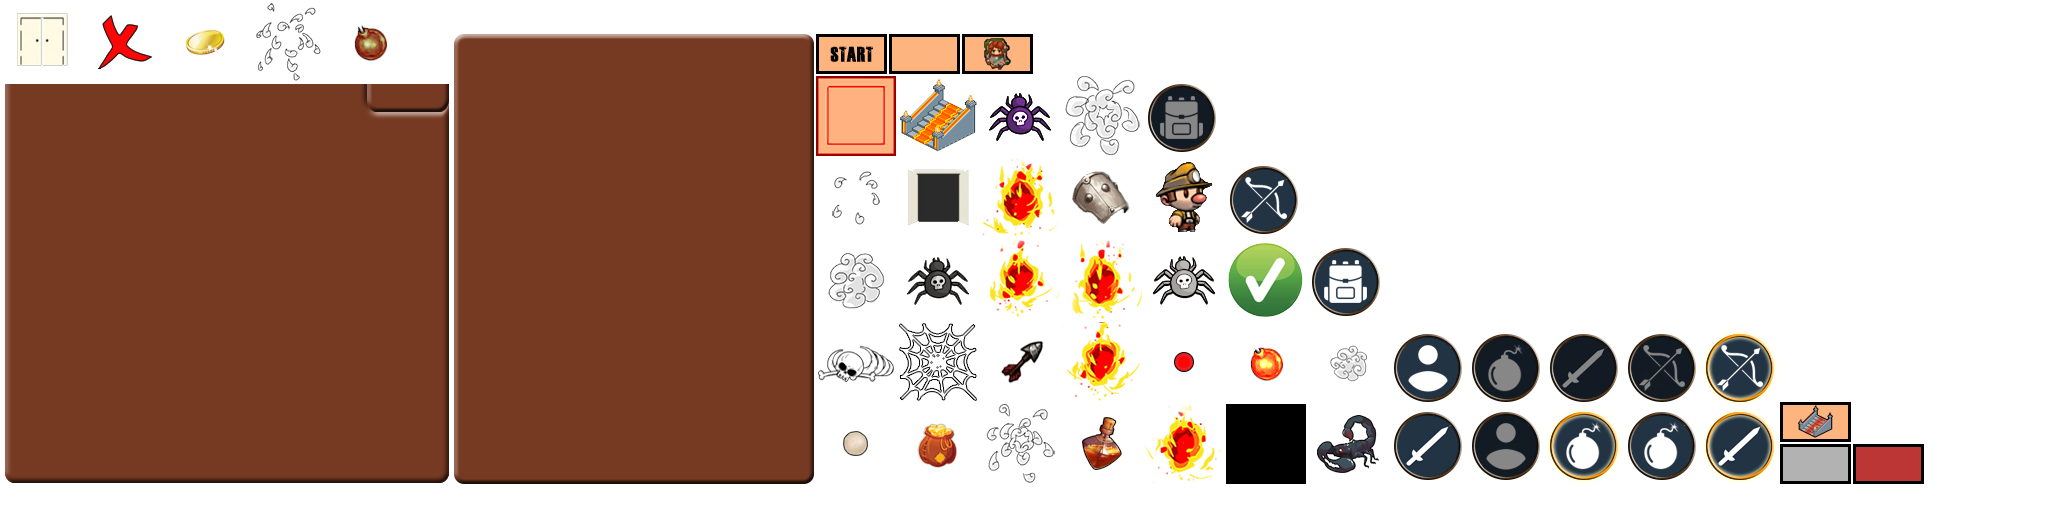
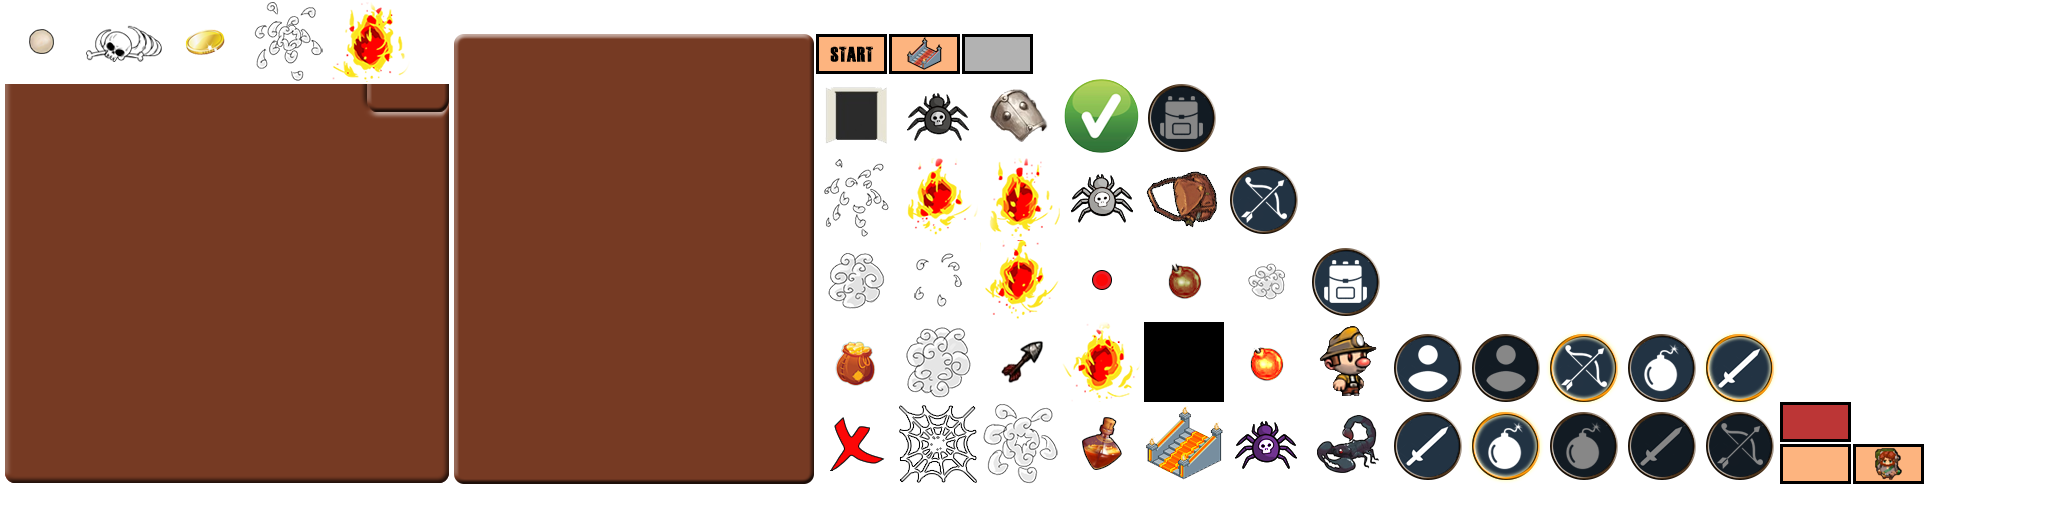
[Refacto] Improved the mini map.

diff --git a/core/src/com/dokkaebistudio/tacticaljourney/rendering/MapRenderer.java b/core/src/com/dokkaebistudio/tacticaljourney/rendering/MapRenderer.java
@@ -23,7 +23,9 @@ import com.badlogic.gdx.scenes.scene2d.ui.Table;
 import com.badlogic.gdx.scenes.scene2d.utils.ChangeListener;
 import com.badlogic.gdx.scenes.scene2d.utils.Drawable;
 import com.badlogic.gdx.scenes.scene2d.utils.SpriteDrawable;
+import com.badlogic.gdx.scenes.scene2d.utils.TextureRegionDrawable;
 import com.badlogic.gdx.utils.Array;
+import com.badlogic.gdx.utils.SnapshotArray;
 import com.dokkaebistudio.tacticaljourney.Assets;
 import com.dokkaebistudio.tacticaljourney.GameScreen;
 import com.dokkaebistudio.tacticaljourney.rendering.interfaces.Renderer;
@@ -57,7 +59,7 @@ public class MapRenderer implements Renderer {
 	
 	/** The main table. */
 	private ScrollPane scrollPane;
-	private Table mainGroup;
+	private Table roomsTable;
 	
 	/** The background of the map. */
 	private Image background;
@@ -65,6 +67,18 @@ public class MapRenderer implements Renderer {
 	private Image player;
 	
 	private static boolean needRefresh = true;
+	
+	
+	
+	//***************************
+	// Current floor attributes
+	private Integer minX;
+	private Integer maxX;
+	private Integer minY;
+	private Integer maxY;
+	private int xRange;
+	private int yRange; 
+	
 	
 	/**
 	 * Instanciate a Map Renderer.
@@ -75,7 +89,6 @@ public class MapRenderer implements Renderer {
 	public MapRenderer(GameScreen gs, Stage s, Floor f) {
 		this.stage = s;
 		this.gameScreen = gs;
-		this.floor = f;
 		this.mapDisplayed = true;
 		
 		gameScreen.guiCam.update();
@@ -120,47 +133,44 @@ public class MapRenderer implements Renderer {
 		mapTable.pack();
 		stage.addActor(mapTable);
 		
-		mainGroup = new Table();
-		mainGroup.pad(200, 200, 200, 200);
+		roomsTable = new Table();
+		roomsTable.pad(200, 200, 200, 200);
 //		mainGroup.setDebug(true);
 
-		scrollPane = new ScrollPane(mainGroup);
+		scrollPane = new ScrollPane(roomsTable);
 		scrollPane.setTouchable(Touchable.disabled);
 		scrollPane.setBounds(background.getX() + 5, background.getY() + 5, Assets.map_background.getRegionWidth() - 10, Assets.map_background.getRegionHeight() - 40);
 //		scrollPane.addAction(Actions.alpha(0.5f));
 
 		stage.addActor(scrollPane);
+		
+		
+		enterFloor(f);
 	}
 	
 
-	
 	/**
 	 * Render the map of the floor.
 	 */
 	public void render(float deltaTime) {
-
 		if (needRefresh) {
 			buildRooms();
-			
 			scrollToCurrentRoom();
-
 			needRefresh = false;
 		}
 		
-		
-		// 2 - Button
 		stage.act(Gdx.graphics.getDeltaTime());
 		stage.draw();
-
 	}
-
-	private void buildRooms() {
-		mainGroup.clear();
+	
+	/**
+	 * Change floor.
+	 * @param newFloor the new floor
+	 */
+	public void enterFloor(Floor newFloor) {
+		this.floor = newFloor;
 		
-		Integer minX = null;
-		Integer maxX = null;
-		Integer minY = null;
-		Integer maxY = null;
+		// Create the table containing rooms and corridors images
 		for (Vector2 coord : floor.getRoomPositions().keySet()) {
 			if (minX == null || coord.x < minX.intValue()) {
 				minX = (int) coord.x;
@@ -176,88 +186,58 @@ public class MapRenderer implements Renderer {
 			}
 		}
 		
-		int xRange = maxX - minX + 1;
-		int yRange = maxY - minY + 1;
-		for (int y=0 ; y<yRange; y++) {
-			if (y != 0) {
-				// Add the room row
-				mainGroup.row();
-			}
-			
-			// Add the columns for the current row
-			for (int x=0 ; x<xRange ; x++) {
-				mainGroup.add().width(Assets.map_room.getRegionWidth()).height(Assets.map_room.getRegionHeight());
-				if (x != xRange - 1) {
-					mainGroup.add().width(Assets.map_corridor.getRegionWidth()).height(Assets.map_corridor.getRegionHeight());
-				}
-			}
-			
-			// Add the corridor row
-			if (y != yRange - 1) {
-				mainGroup.row();
-				
-				// Add the columns for the current row
-				for (int x=0 ; x<xRange ; x++) {
-					mainGroup.add().width(Assets.map_room.getRegionWidth()).height(Assets.map_corridor.getRegionHeight());
-					if (x != xRange - 1) {
-						mainGroup.add().width(Assets.map_corridor.getRegionWidth()).height(Assets.map_corridor.getRegionHeight());
-					}
-				}
+		xRange = maxX - minX + 1;
+		yRange = maxY - minY + 1;
+		createTableLayout(xRange, yRange);
+	}
 
-			}
-		}
-		
-		
-		
+	/**
+	 * Build the table of rooms and corridors.
+	 */
+	private void buildRooms() {
+
 		for (Entry<Vector2, Room> entry : floor.getRoomPositions().entrySet()) {
 			Vector2 coord = entry.getKey();
 			int tableX = (int) ((coord.x + Math.abs(minX)) * 2);
 			int tableY = (int) (((yRange - (coord.y + Math.abs(minY))) * 2) - 2);
 			
-			Array<Cell> cells = mainGroup.getCells();
-			
-			boolean cellFound = false;
+			Array<Cell> cells = roomsTable.getCells();
 			
 			Cell c = findCell(tableX, tableY, cells);
 					
 			if (c != null) {
 				Room room = entry.getValue();
-				Image roomImg = null;
+				Stack stack = (Stack) c.getActor();
+				SnapshotArray<Actor> children = stack.getChildren();
+				Image roomImage = (Image) children.get(0);
+				Image playerImage = (Image) children.get(1);
 				
 				if (room.isVisited()) {
 					switch(room.type) {
 					case START_FLOOR_ROOM:
-						roomImg = new Image(Assets.map_room_start);
+						roomImage.setDrawable(new TextureRegionDrawable(Assets.map_room_start));
 						break;
 					case END_FLOOR_ROOM:
-						roomImg = new Image(Assets.map_room_exit);
+						roomImage.setDrawable(new TextureRegionDrawable(Assets.map_room_exit));
 						break;
 					case COMMON_ENEMY_ROOM:
 					case EMPTY_ROOM:
 						if (room.hasEnemies()) {
-							roomImg = new Image(Assets.map_room_enemy);
+							roomImage.setDrawable(new TextureRegionDrawable(Assets.map_room_enemy));
 						} else {
-							roomImg = new Image(Assets.map_room);
+							roomImage.setDrawable(new TextureRegionDrawable(Assets.map_room));
 						}
 						break;
 					case SHOP_ROOM:
-						roomImg = new Image(Assets.map_room_shop);
+						roomImage.setDrawable(new TextureRegionDrawable(Assets.map_room_shop));
 						break;
 					}
-					
-					
-					if (floor.getActiveRoom() == room) {
-						//Place the player icon
-						Stack s = new Stack();
-						s.add(roomImg);
-						
-						player = new Image(Assets.map_player);
-						s.add(player);
-						
-						c.setActor(s);
-					} else {
-						c.setActor(roomImg);
 
+					if (floor.getActiveRoom() == room) {
+						playerImage.setDrawable(new TextureRegionDrawable(Assets.map_player));
+						player = playerImage;
+					} else {
+						playerImage.setDrawable(null);
 					}
 		
 					
@@ -272,8 +252,7 @@ public class MapRenderer implements Renderer {
 							|| (room.getWestNeighbor() != null && room.getWestNeighbor().isVisited())
 							|| (room.getEastNeighbor() != null && room.getEastNeighbor().isVisited())) {
 						// Draw unknown room
-						roomImg = new Image(Assets.map_room_unknown);
-						c.setActor(roomImg);
+						roomImage.setDrawable(new TextureRegionDrawable(Assets.map_room_unknown));
 						
 						if (room.getSouthNeighbor() != null && room.getSouthNeighbor().isVisited()) {
 							// Draw corridor
@@ -292,7 +271,47 @@ public class MapRenderer implements Renderer {
 
 		}
 
-		mainGroup.pack();
+		roomsTable.pack();
+	}
+
+
+
+	private void createTableLayout(int xRange, int yRange) {
+		roomsTable.clear();
+		for (int y=0 ; y<yRange; y++) {
+			if (y != 0) {
+				// Add the room row
+				roomsTable.row();
+			}
+			
+			// Add the columns for the current row
+			for (int x=0 ; x<xRange ; x++) {
+				Stack s = new Stack();
+				// Room image
+				s.add(new Image());
+				// Player image
+				s.add(new Image());
+				
+				roomsTable.add(s).width(Assets.map_room.getRegionWidth()).height(Assets.map_room.getRegionHeight());
+				if (x != xRange - 1) {
+					roomsTable.add(new Image()).width(Assets.map_corridor.getRegionWidth()).height(Assets.map_corridor.getRegionHeight());
+				}
+			}
+			
+			// Add the corridor row
+			if (y != yRange - 1) {
+				roomsTable.row();
+				
+				// Add the columns for the current row
+				for (int x=0 ; x<xRange ; x++) {
+					roomsTable.add(new Image()).width(Assets.map_room.getRegionWidth()).height(Assets.map_corridor.getRegionHeight());
+					if (x != xRange - 1) {
+						roomsTable.add(new Image()).width(Assets.map_corridor.getRegionWidth()).height(Assets.map_corridor.getRegionHeight());
+					}
+				}
+
+			}
+		}
 	}
 
 
@@ -300,7 +319,8 @@ public class MapRenderer implements Renderer {
 	private void drawSouthCorridor(int tableX, int tableY, Array<Cell> cells, Room room) {
 		if (room.getSouthNeighbor() != null) {
 			Cell result = findCell(tableX, tableY + 1, cells);
-			Image corridorImg = new Image(Assets.map_corridor);
+			Image corridorImg = (Image) result.getActor();
+			corridorImg.setDrawable(new TextureRegionDrawable(Assets.map_corridor));
 			result.setActor(corridorImg);
 			result.width(Assets.map_corridor.getRegionWidth());
 		}
@@ -311,7 +331,8 @@ public class MapRenderer implements Renderer {
 	private void drawEastCorridor(int tableX, int tableY, Array<Cell> cells, Room room) {
 		if (room.getEastNeighbor() != null) {
 			Cell result = findCell(tableX + 1, tableY, cells);
-			Image corridorImg = new Image(Assets.map_corridor);
+			Image corridorImg = (Image) result.getActor();
+			corridorImg.setDrawable(new TextureRegionDrawable(Assets.map_corridor));
 			result.setActor(corridorImg);
 		}
 	}

diff --git a/core/src/com/dokkaebistudio/tacticaljourney/systems/HealthSystem.java b/core/src/com/dokkaebistudio/tacticaljourney/systems/HealthSystem.java
@@ -19,6 +19,7 @@ import com.dokkaebistudio.tacticaljourney.components.player.ExperienceComponent;
 import com.dokkaebistudio.tacticaljourney.components.player.ParentEntityComponent;
 import com.dokkaebistudio.tacticaljourney.components.player.PlayerComponent;
 import com.dokkaebistudio.tacticaljourney.enums.HealthChangeEnum;
+import com.dokkaebistudio.tacticaljourney.rendering.MapRenderer;
 import com.dokkaebistudio.tacticaljourney.room.Room;
 import com.dokkaebistudio.tacticaljourney.room.RoomState;
 import com.dokkaebistudio.tacticaljourney.util.Mappers;
@@ -122,6 +123,12 @@ public class HealthSystem extends IteratingSystem implements RoomSystem {
 					
 						room.removeEnemy(entity);
 						//TODO: play death animation
+						
+						if (!room.hasEnemies()) {
+							//TODO move this
+							//TODO display "CLEARED"
+							MapRenderer.requireRefresh();
+						}
 					}
 				}
 			
